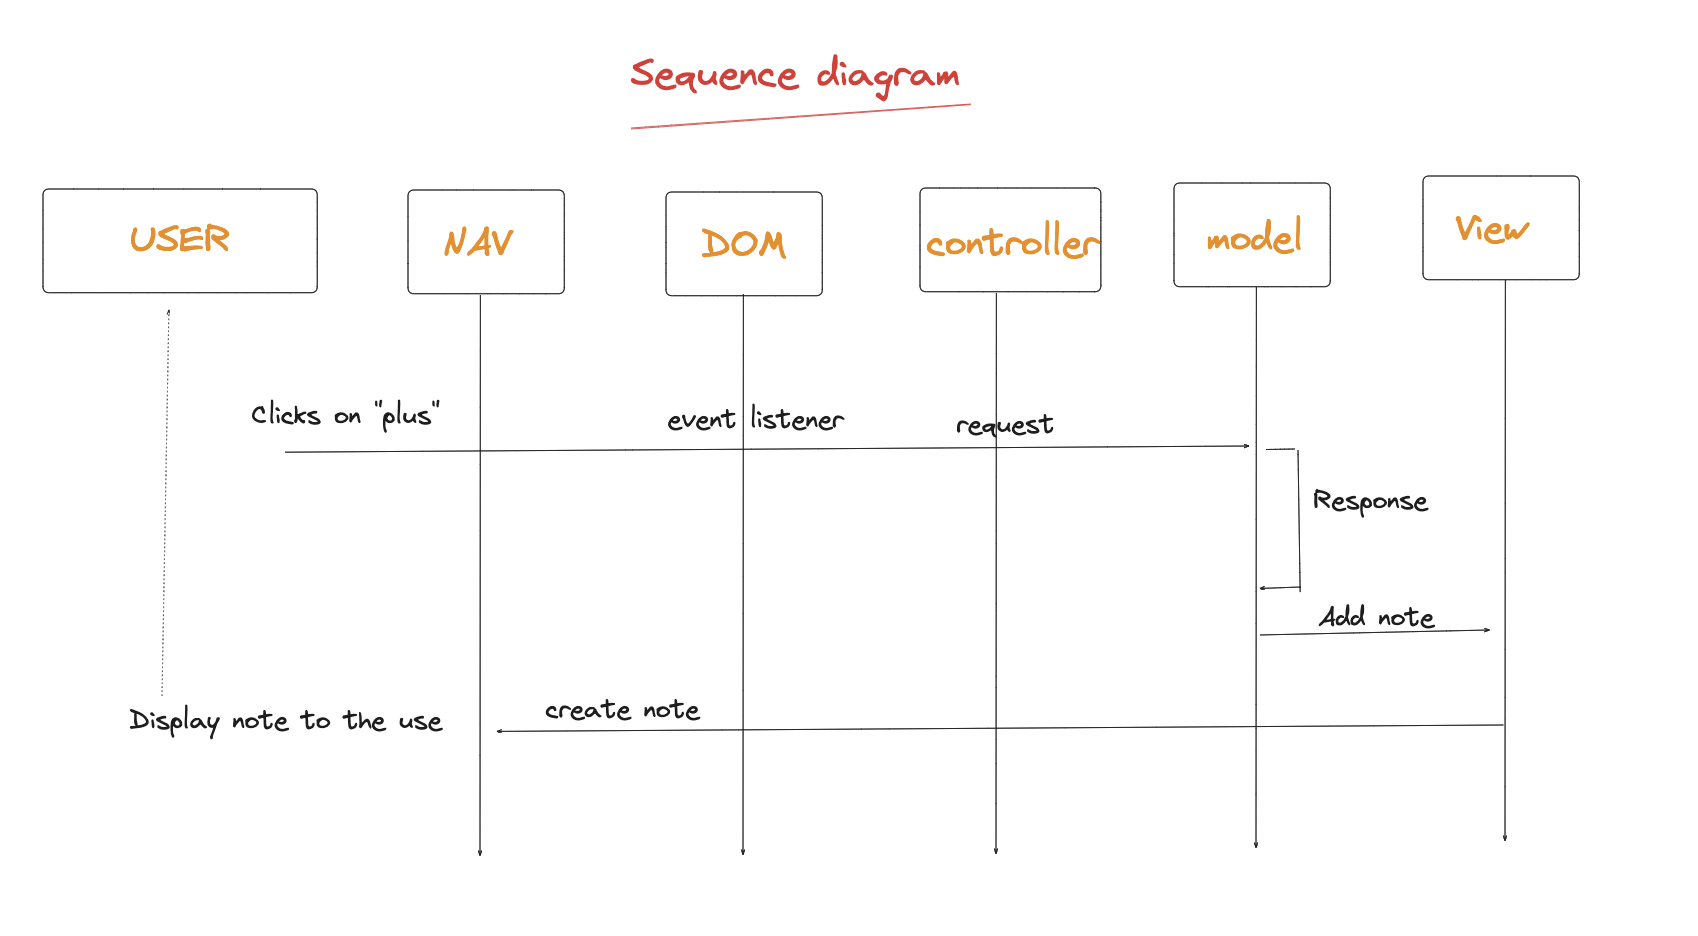
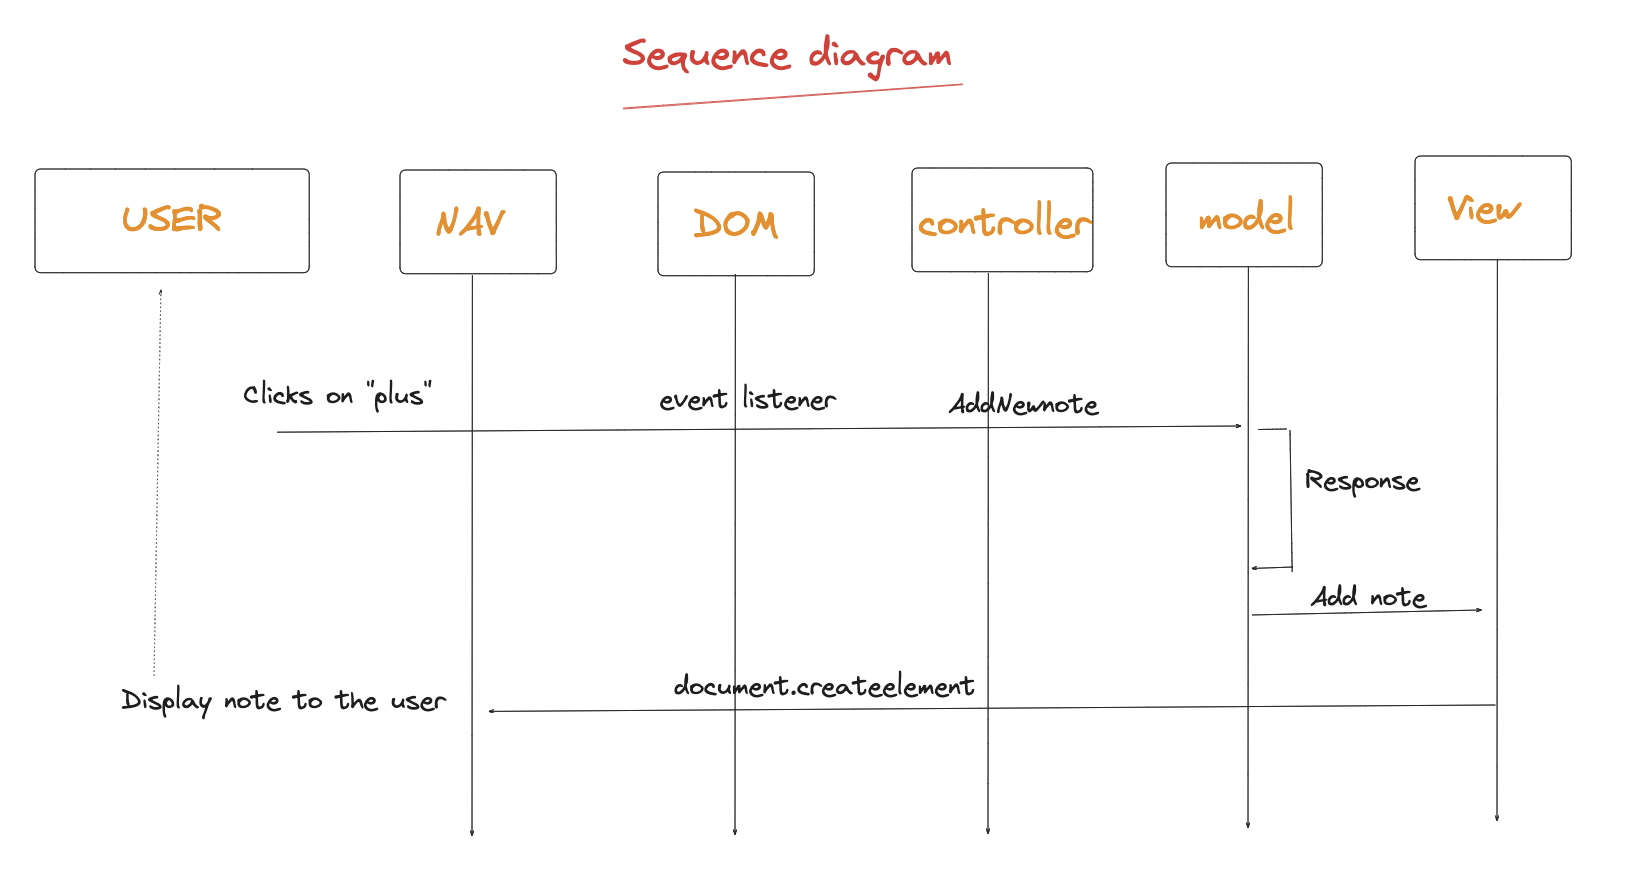
update: sixta exo

diff --git a/site/sexta/index.html b/site/sexta/index.html
@@ -483,14 +483,15 @@
 
 <p><img alt="sexta exericse" src="../sexta.png" />
 <strong>Les cas d'utilisation :</strong>
-C'est une application de prise de note, l'utilisateur ajoute autant de notes qu'il veut. 
+C'est une application de prise de note, l'utilisateur ajoute autant de notes qu'il veut.
+<strong>Explication du use case constaté:</strong>
 <img alt="usecase" src="../usecase.png" /></p>
 <p><strong>Wireframe :</strong>
 <img alt="wireframe" src="../wireframe.png" /></p>
 <p><strong>Le diagramme d'activité :</strong>
 <img alt="activity diagram" src="../activity.png" /></p>
 <p><strong>Digramme de séquence :</strong>
-En cours </p>
+<img alt="sequence diagram" src="../sequence.png" /></p>
 <p><strong>Diagramme de classe :</strong>
 <img alt="class diagram" src="../class.png" /></p>
 

diff --git a/docs/sexta.md b/docs/sexta.md
@@ -1,7 +1,7 @@
 ![sexta exericse](sexta.png)
 **Les cas d'utilisation :**
-C'est une application de prise de note, l'utilisateur ajoute autant de notes qu'il veut.
-**Explication du use case constaté:**
+C'est une application de prise de note, l'utilisateur ajoute autant de notes qu'il veut, il peut éditer le contenu de la note et l'enregistrer ( validation)
+**Explication du use case constaté en schéma:**
 ![usecase](usecase.png)
 
 **Wireframe :**
@@ -15,3 +15,9 @@ C'est une application de prise de note, l'utilisateur ajoute autant de notes qu'
 
 **Diagramme de classe :**
 ![class diagram](class.png)
+
+**Améliorations futures :**
+• Authentification
+• Ajout de features : édition, suppression 
+• Persistance des données
+

diff --git a/docs/tertia.md b/docs/tertia.md
@@ -1,5 +1,4 @@
-![tertia exericse](tertia.png)
-
+![tertia exericse](tertia.png) 
 
 # Le protocole HTTP
 
